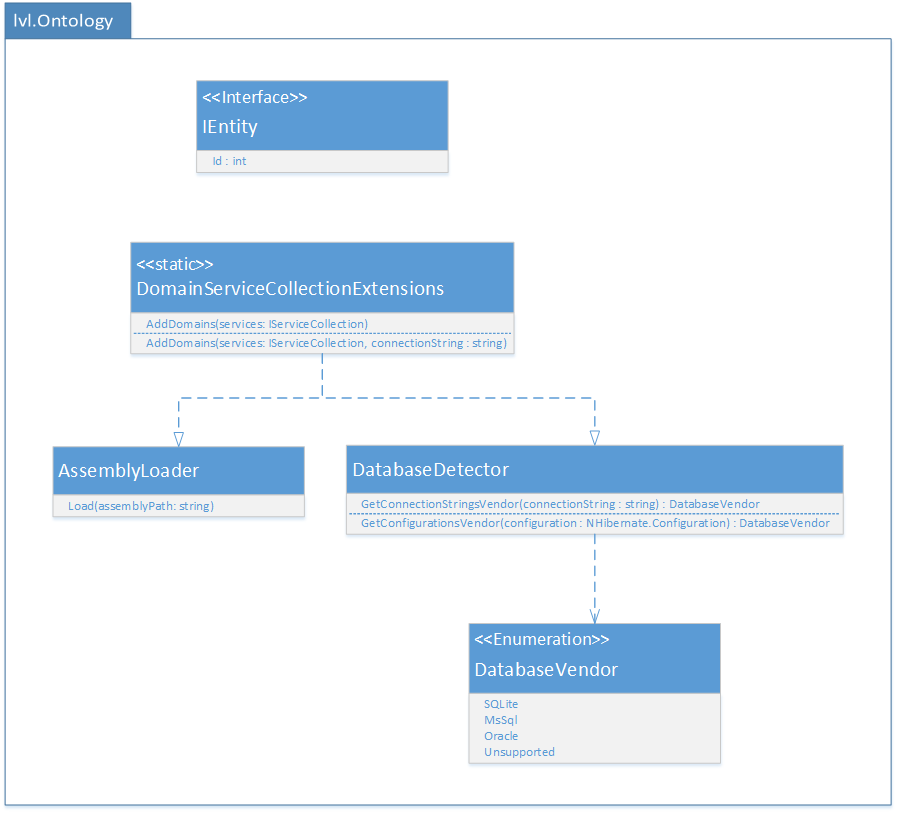
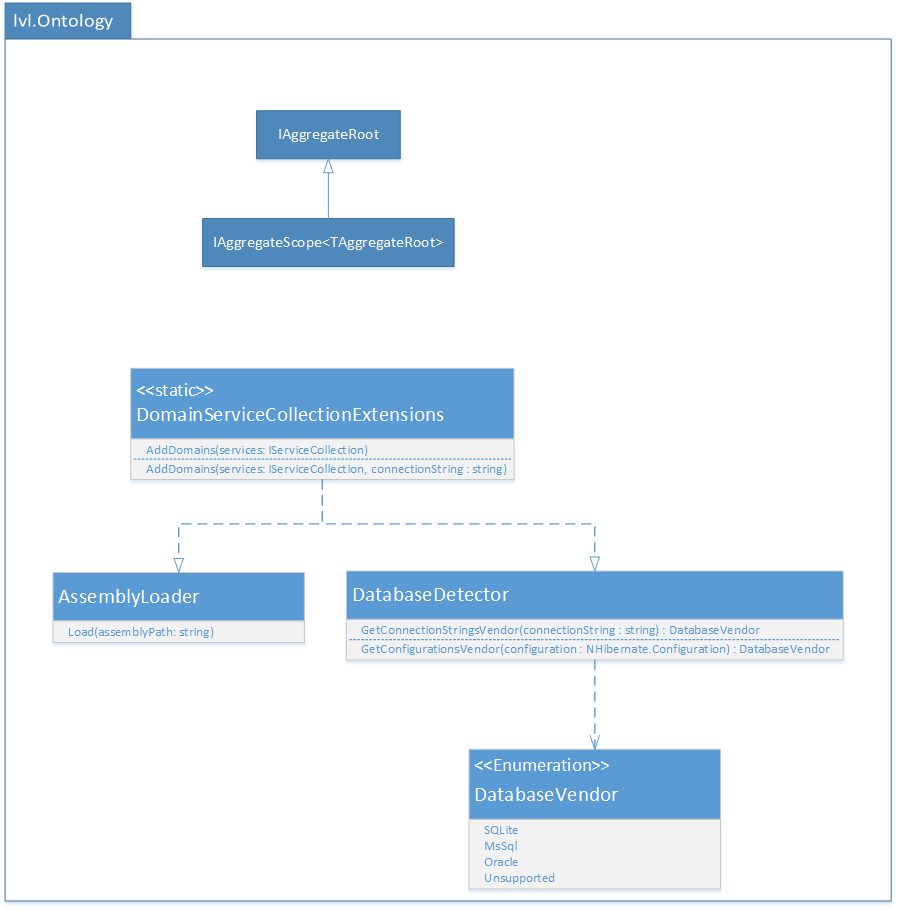
adding README for ontology, in accordance with https://github.com/jonathanburrows/lavalav/issues/96

Changed region(s): [[0.0, 0.0923, 0.9989, 1.0], [0.0, 0.0, 0.9989, 0.0615]]

diff --git a/Ontology/README.md b/Ontology/README.md
@@ -1,6 +1,92 @@
-Ontology has 2 purposes:
-1) Create a base interface all domain models must inherit from
-2) A method to register all domain models being referenced
+# Ontology
+## Goals
+Provide Generic interfaces and conventions for defining a domain.
+
+
+## Creating a domain model
+A domain model must inherit from `FluentNHibernate.Data.Entity`:
+```cs
+public class MyEntity : Entity { }
+```
+
+
+If it is going to be saved directly to the api (not as a child of another entity), then implement the `lvl.Ontology.IAggregateRoot` interface:
+```cs
+public class MyParentEntity : Entity, IAggregateRoot { }
+```
+
+
+If it is not going to be saved directly, and instead will be saved as part of a part entity's transaction, then implement the `lvl.Ontology.IAggregateScope` interface:
+```cs
+public class MyChildEntity : Entity, IAggregateScope<ParentEntity> { }
+
+// Will be saved to the api, added for clarity
+public class MyParentEntity : Entity, IAggregateRoot { }
+```
+
+
+## Conventions
+### Foreign Key Id Convention
+In order to allow for id references in the domain model (instead of object references), the foreign key property must be decorated with a `[ForeignKeyId]` attribute:
+```cs
+public class BusinessSpecificEntity: Entity, IAggregateRoot 
+{
+	[ForeignKeyId(typeof(Category))]
+	public int CategoryId { get; set; }
+}
+
+public class Category: Entity, IAggregateRoot { }
+```
+
+When referencing an entity through a foreign key, it will not be cascaded to in any operations.
+
+
+
+### Invlid Aggregate Root Convention
+Will automatically be called at startup. When an object reference is made to a non-root object, not in the same scope, it will throw an exception.
+
+
+
+### Max Length Convention
+Will set the VARCHAR (or similar) in the database. By default, the length is 255. Decorate string properties with the standard [MaxLength] attribute.
+```cs
+public class MyEntity: Entity, IAggregateRoot 
+{
+	[MaxLength(2000)]
+	public string ReallyLongTextField { get; set; }
+}
+```
+
+
+### Required Convention
+Ensures that non-nullable primatives, primatives marked with [Required], and strings marked with [Required] are set as _Not Null_ in the database.
+```cs
+public class EntityWithRequiredFields: Entity, IAggregateRoot 
+{ 
+	public int RequiredNotNullable {get; set; }
+
+	[Required]
+	public int? RequiredNullable { get; set; }
+}
+```
+
+
+
+### Table Naming Convention
+Used to override a tables name and schema.
+
+
+
+### Unique Convention
+Used to mark a column as unique in the database:
+```cs
+public class MyEntity: Entity, IAggregateRoot 
+{ 
+	[Unique]
+	public string KeyIdentifier { get; set; }
+}
+```
+
 
 ## Architecture
 <img src="docs\ontology-architecture.png" />

diff --git a/front-end/README.md b/front-end/README.md
@@ -25,7 +25,8 @@ When setting up an angular project, the following folder structure should be adh
 ----/styles
 ----module-name.module.ts
 ----module-name.router.module.ts
-----module-name.scss```
+----module-name.scss
+```
 
 
 
